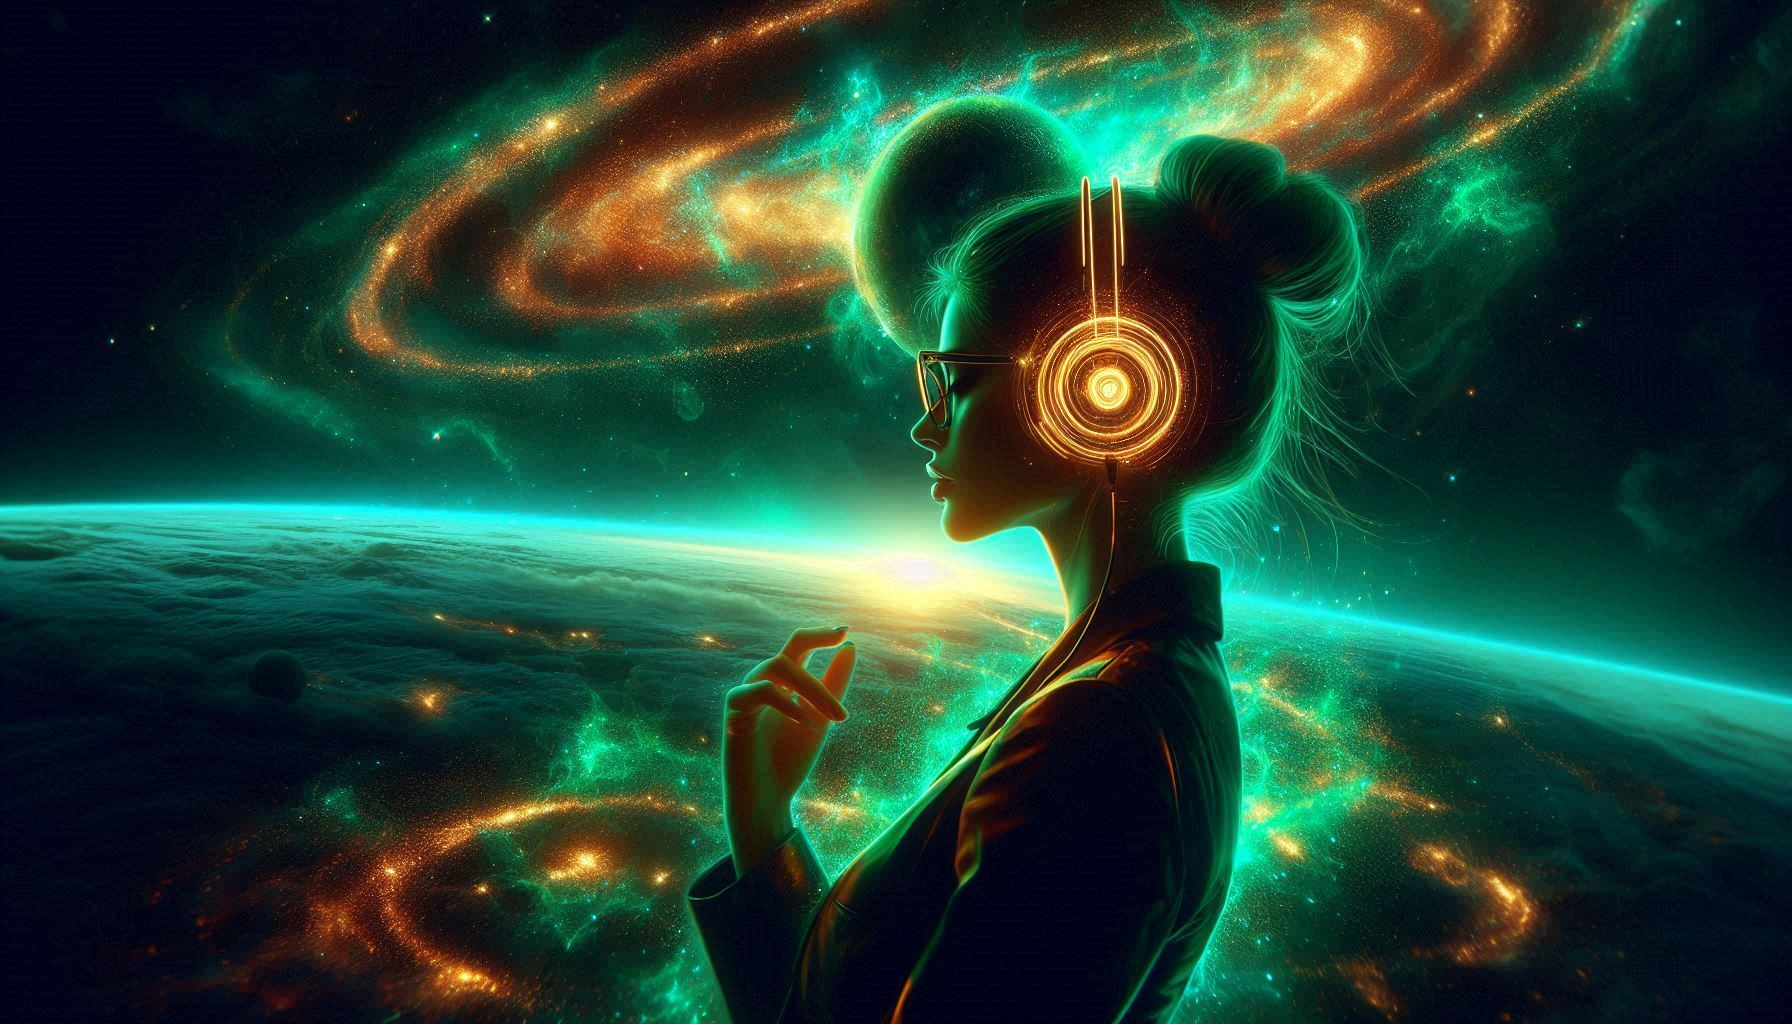
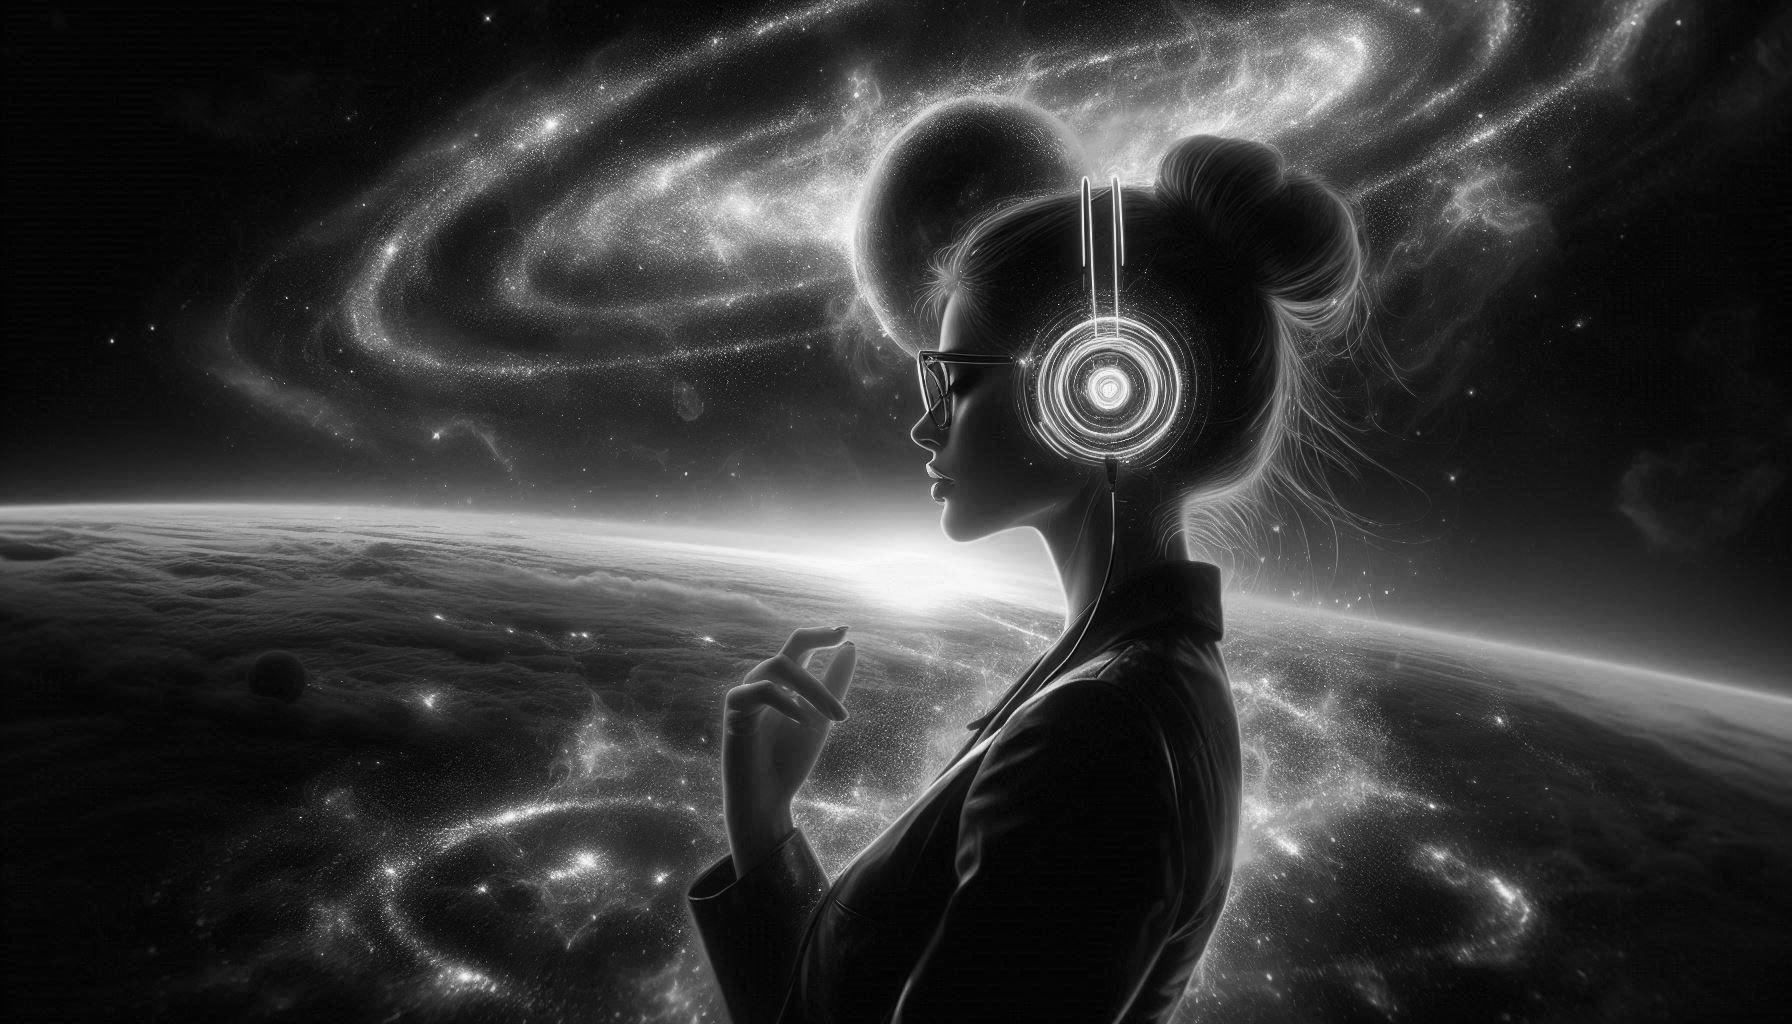
add pictures

diff --git a/src/components/SearchForm.vue b/src/components/SearchForm.vue
@@ -1,55 +1,57 @@
 <template>
-  <div class="search-form-wrapper">
-    <form @keydown.enter.prevent="getArtist">
-      <label>
-        <span></span>
-        <input name="author_name" type="text" placeholder="Исполнитель" v-model="artistName">
-      </label>
-      <div class="button-box">
-        <button type="button" @click="getArtist">
-          <span>Найти</span>
-        </button>
-      </div>
-    </form>
-    <div v-if="!!selected_artist" class="selected-author-wrapper">
-      <div class="selected-author-block">
-        <div class="selected-author-block-image">
-          <img :src="'https://' + selected_artist.ogImage.slice(0, -2) + '60x60'" alt="">
+  <div class="search-form-main-wrapper">
+    <div class="search-form-wrapper">
+      <form @keydown.enter.prevent="getArtist">
+        <label>
+          <span></span>
+          <input name="author_name" type="text" placeholder="Исполнитель" v-model="artistName">
+        </label>
+        <div class="button-box">
+          <button type="button" @click="getArtist">
+            <span>Найти</span>
+          </button>
         </div>
-        <div class="selected-author-block-name">
-          <p>{{selected_artist.name}}</p>
-        </div>
-      </div>
-    </div>
-    <div v-if="!!selected_artist" class="game-type-wrapper">
-      <div @click="$router.push('/group')" class="game-type">
-        <div class="game-type-image">
-          <img src="../assets/1.jpg" alt="">
-        </div>
-        <div class="game-type-text">
-          <p>Group Level + Play-off (32 songs)</p>
-        </div>
-      </div>
-      <div @click="$router.push('/tournament')" class="game-type">
-        <div class="game-type-image">
-          <img src="../assets/2.jpg" alt="">
-        </div>
-        <div class="game-type-text">
-          <p>Only Play-off (16 songs)</p>
-        </div>
-      </div>
-    </div>
-    <div v-if="artist_info.length" class="artist-list-wrapper">
-      <ul class="artist-list">
-        <li class="artist-list-item" v-for="artist in artist_info" @click="setSelectedArtist(artist.id)">
-          <div class="icon">
-            <img :src="'https://' + artist.ogImage.slice(0, -2) + '30x30'" alt="">
+      </form>
+      <div v-if="!!selected_artist" class="selected-author-wrapper">
+        <div class="selected-author-block">
+          <div class="selected-author-block-image">
+            <img :src="'https://' + selected_artist.ogImage.slice(0, -2) + '60x60'" alt="">
           </div>
-          <div class="text">
-            <p>{{artist.name}}</p>
+          <div class="selected-author-block-name">
+            <p>{{selected_artist.name}}</p>
           </div>
-        </li>
-      </ul>
+        </div>
+      </div>
+      <div v-if="!!selected_artist" class="game-type-wrapper">
+        <div @click="$router.push('/group')" class="game-type">
+          <div class="game-type-image">
+            <img src="../assets/5.webp" alt="">
+          </div>
+          <div class="game-type-text">
+            <p>Group Level + Play-off (32 songs)</p>
+          </div>
+        </div>
+        <div @click="$router.push('/tournament')" class="game-type">
+          <div class="game-type-image">
+            <img src="../assets/4.webp" alt="">
+          </div>
+          <div class="game-type-text">
+            <p>Only Play-off (16 songs)</p>
+          </div>
+        </div>
+      </div>
+      <div v-if="!!artist_info && artist_info.length" class="artist-list-wrapper">
+        <ul class="artist-list">
+          <li class="artist-list-item" v-for="artist in artist_info" @click="setSelectedArtist(artist.id)">
+            <div class="icon">
+              <img :src="'https://' + artist.ogImage.slice(0, -2) + '30x30'" alt="">
+            </div>
+            <div class="text">
+              <p>{{artist.name}}</p>
+            </div>
+          </li>
+        </ul>
+      </div>
     </div>
   </div>
 </template>
@@ -85,7 +87,7 @@ export default {
 
     // Метод для вызова экшена fetchSongs
     const getSongs = () => {
-      songsStore.fetchSongs(artistName.value);
+      songsStore.fetchSongs();
     };
 
     // Метод для вызова экшена fetchSongs
@@ -95,6 +97,7 @@ export default {
 
     const setSelectedArtist = (id) => {
       songsStore.setSelectedArtist(id);
+      songsStore.fetchSongs()
     };
 
 
@@ -115,7 +118,12 @@ export default {
 
 <!-- Add "scoped" attribute to limit CSS to this component only -->
 <style lang="scss" scoped>
+.search-form-main-wrapper {
+  padding: 50px;
+}
 .search-form-wrapper {
+  position: relative;
+  z-index: 1;
   background: #fff;
   width: 800px;
   margin: auto;
@@ -135,7 +143,7 @@ export default {
         border-radius: 10px 0 0 10px;
         border: 2px solid #000;
         border-right: none;
-        min-width: 500px;
+        min-width: 600px;
       }
     }
     .button-box {

diff --git a/src/components/GroupLevel.vue b/src/components/GroupLevel.vue
@@ -1,7 +1,10 @@
 <template>
   <div class="group-level-wrapper">
-    <div class="row" v-for="it in 2">
-      <div class="group-table" v-for="item in 4">
+    <pre>
+      {{songs.map(v=>v.title)}}
+    </pre>
+    <div class="row">
+      <div class="group-table" v-for="group in 4">
         <div class="title-line">
           <p>Group A</p>
         </div>
@@ -41,53 +44,47 @@
 </template>
 
 <script>
+import {useSongsStore} from "@/store/songsStore";
+import {computed, ref, watch} from "vue";
+
 export default {
   name: 'GroupLevelComponent',
-  props: {},
-  data() {
+  setup() {
+    const songsStore = useSongsStore();
+
+    // Локальное состояние для двустороннего связывания с инпутом
+    const artistName = ref(songsStore.artist_name);
+
+    // Наблюдение за изменениями локального состояния
+    watch(artistName, (newName) => {
+      songsStore.setArtistName(newName);
+    });
+
+    const selectedArtist = ref(songsStore.selected_artist);
+
+    watch(selectedArtist, (newName) => {
+      songsStore.setArtistName(newName);
+    });
+
+    const songs = computed(() => songsStore.songs);
+    const selected_artist = computed(() => songsStore.selected_artist);
+
+
+
     return {
-      songs: [],
-      group_objects: [
-        {
-          id: 0,
-          letter: 'A',
-          image: '',
-          title: 'title of',
-          rating: 1
-        }
-      ]
-    }
+      selected_artist,
+      songs
+    };
   },
-  methods: {
-    getSongs() {
-      this.$axios.post('http://localhost:88/api/get-artist-tracks', {artist_name: 'kino'})
-          .then(response => {
-            this.items = response.data;
-            this.group_objects = response.data.map((v) => {
-              return {
-                title: v.title,
-                img: 'https://' + v.ogImage.slice(0, -2) + "200x200"
-              }
-            }).slice(0, 4)
-            console.log(response.data)
-          })
-          .catch(error => {
-            console.error('Ошибка при получении данных:', error);
-          });
-    }
-  },
-  mounted() {
-    this.getSongs()
-  }
 }
 </script>
 
-<!-- Add "scoped" attribute to limit CSS to this component only -->
 <style lang="scss" scoped>
   h3 {
     color: green;
   }
   .group-level-wrapper {
+    position: relative;
     background: #ffffff;
     box-shadow: 0 0 10px #00000050;
     border-radius: 10px;
@@ -122,7 +119,7 @@ export default {
       display: flex;
     }
     .progress-line {
-      height: 10px;
+      height: 5px;
       border: 1px solid green;
       width: 100%;
       display: flex;

diff --git a/src/store/songsStore/index.js b/src/store/songsStore/index.js
@@ -5,7 +5,7 @@ import axios from 'axios';
 export const useSongsStore = defineStore('songsStore', {
     state: () => ({
         artist_name: '',
-        artist_info: [],
+        artist_info: null,
         selected_artist: null,
         songs: [],
         loading: false,
@@ -24,11 +24,12 @@ export const useSongsStore = defineStore('songsStore', {
                 this.loading = false; // Отключаем флаг загрузки
             }
         },
-        async fetchSongs(author) {
+        async fetchSongs() {
+            alert(this.selected_artist.id)
             this.loading = true; // Устанавливаем флаг загрузки
             this.error = null;   // Сбрасываем ошибки
             try {
-                const response = await axios.post('http://localhost:88/api/get-artist-tracks', {artist_name: author});
+                const response = await axios.post('http://localhost:88/api/get-artist-tracks', {artist_id: this.selected_artist.id});
                 this.songs = response.data; // Полностью заменяем массив песен
             } catch (error) {
                 this.error = 'Ошибка при получении данных: ' + error.message;

diff --git a/src/App.vue b/src/App.vue
@@ -1,7 +1,5 @@
 <template>
-  <div id="app">
-    <router-view></router-view>
-  </div>
+  <router-view></router-view>
 </template>
 
 <script>
@@ -13,14 +11,30 @@ export default {
 }
 </script>
 
-<style>
+<style lang="scss">
 #app {
+  position: relative;
   font-family: Avenir, Helvetica, Arial, sans-serif;
   -webkit-font-smoothing: antialiased;
   -moz-osx-font-smoothing: grayscale;
   text-align: center;
   color: #2c3e50;
-  margin-top: 60px;
+  background-image: url("src/assets/3333.webp");
+  background-size: cover;
+  height: 100vh;
+  margin: 0!important;
+  &::before {
+      content: '';
+      width: 100vw;
+      height: 100vh;
+      position: fixed;
+      top: 0;
+      left: 0;
+      backdrop-filter: blur(10px);
+  }
+  //.mask {
+
+  //}
 }
 body {
   margin: 0;
